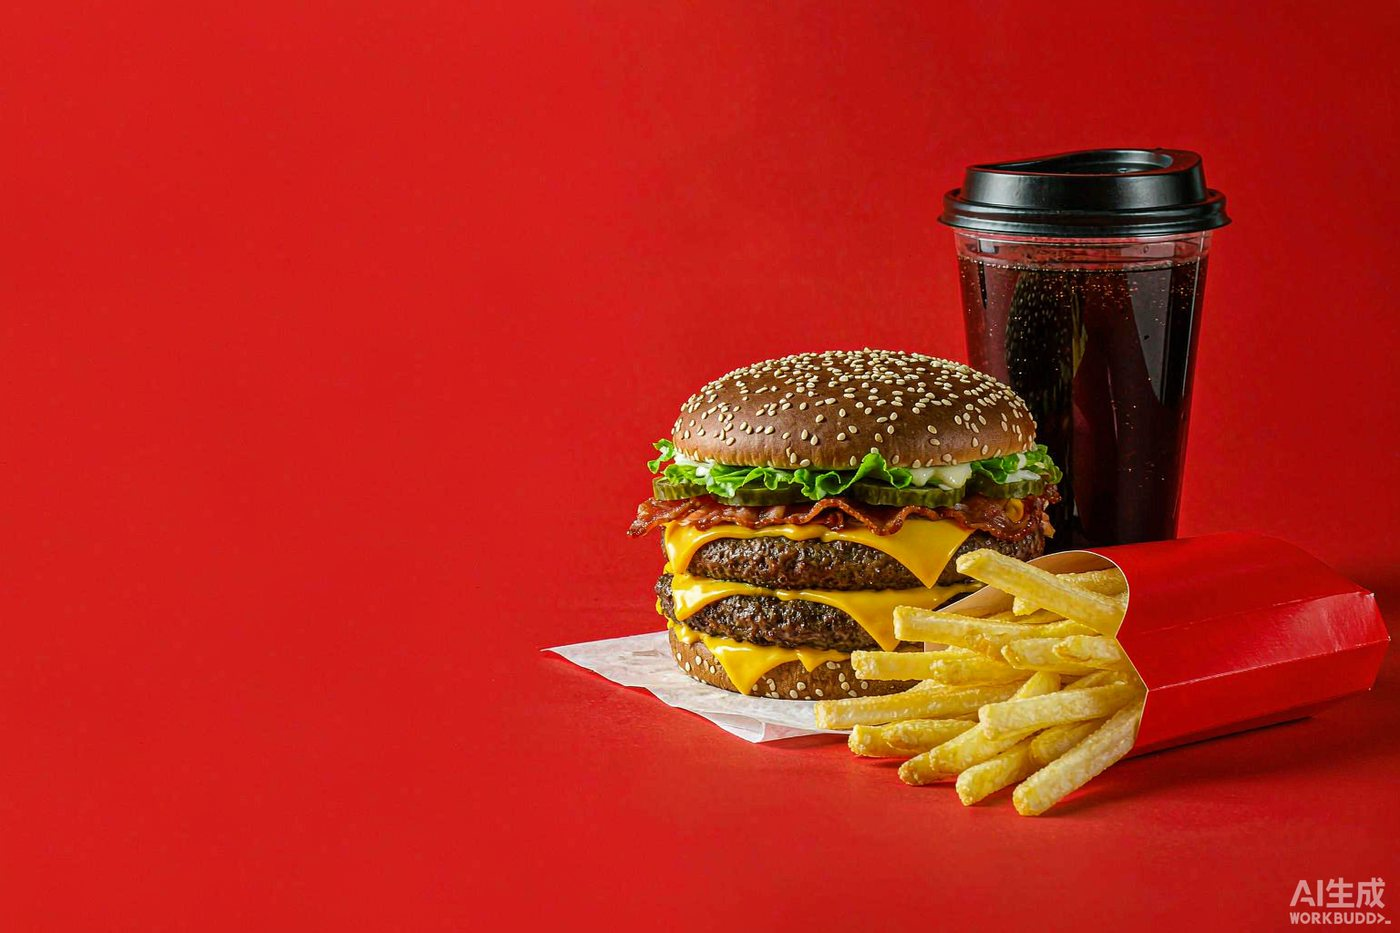
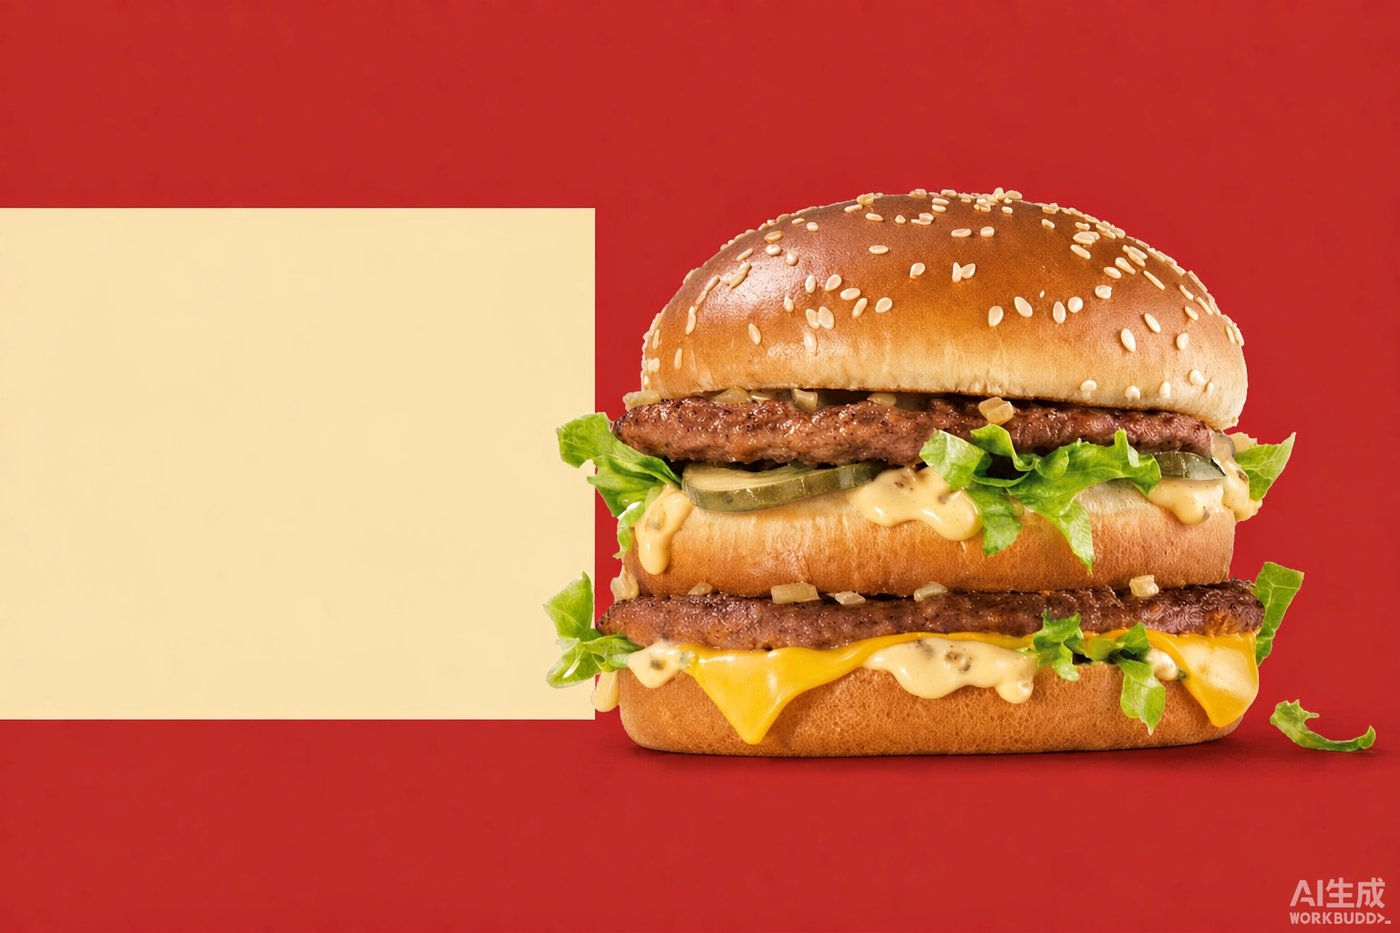
style: 首页全宽海报 + 顶部导航 tab；主视觉改用官方巨无霸参考图生成
- 首屏改为全宽大图（参考 Pure Sunfarms），不再两侧留白
- 顶部改为简洁导航 tab；场景卡片与特性区保留
- 标题加浅底防叠图、折行；主视觉以官方巨无霸图作参考生成，产品更真实

diff --git a/index.html b/index.html
@@ -3,185 +3,126 @@
 <head>
 <meta charset="UTF-8">
 <meta name="viewport" content="width=device-width, initial-scale=1">
-<title>减脂期还想吃麦当劳？说个预算和卡数 · 麦当劳预算及热量测算</title>
-<meta name="description" content="输入一个金额 + 一个热量目标，输出三个真实可下单的麦当劳套餐方案。数据来自真实菜单、价格、营养与优惠券快照。">
+<title>麦当劳预算及热量测算专家 · 一个人吃 / 多人聚餐</title>
+<meta name="description" content="一个人吃，多少钱多少卡出三档套餐；一群人吃，整桌拼单比各点各的省多少。数据来自麦当劳官方接口。">
 <style>
-  :root{
-    --ink:#141414; --red:#DA291C; --yel:#FFC72C; --cream:#FFF9EC;
-    --line:#e3d9c3; --grey:#7a6a52;
-  }
+  :root{--ink:#141414;--red:#DA291C;--yel:#FFC72C;--cream:#FFF9EC;--line:#e3d9c3;--grey:#7a6a52}
   *{margin:0;padding:0;box-sizing:border-box}
-  body{
-    font-family:"Microsoft YaHei","PingFang SC","Hiragino Sans GB",system-ui,sans-serif;
-    background:var(--cream); color:var(--ink); line-height:1.7;
-    -webkit-font-smoothing:antialiased;
-  }
-  .wrap{max-width:960px;margin:0 auto;padding:0 20px 72px}
-
-  /* ── 顶栏 ── */
-  header{border-bottom:3px solid var(--ink); padding:26px 0 20px; margin-bottom:34px}
-  .kicker{font-size:12px;letter-spacing:.22em;color:var(--grey);font-weight:700}
-  h1{font-size:34px;line-height:1.25;margin:8px 0 6px;letter-spacing:-.01em}
-  h1 em{font-style:normal;color:var(--red)}
-  .lede{font-size:15px;color:#4a4034;max-width:660px}
-
-  /* ── 主行动区 ── */
-  .cta{
-    border:3px solid var(--ink);border-radius:14px;background:#fff;
-    padding:26px 24px;margin:0 0 34px;
-    box-shadow:6px 6px 0 var(--yel);
-  }
-  .cta h2{font-size:18px;margin-bottom:6px}
-  .cta p{font-size:13.5px;color:var(--grey);margin-bottom:16px}
-  .btn{
-    display:inline-flex;align-items:center;gap:10px;
-    background:var(--red);color:#fff;text-decoration:none;
-    font-size:16px;font-weight:800;padding:14px 26px;border-radius:10px;
-    border:2px solid var(--ink);box-shadow:4px 4px 0 var(--ink);
-    transition:transform .12s ease, box-shadow .12s ease;
-  }
+  body{font-family:"Microsoft YaHei","PingFang SC","Hiragino Sans GB",system-ui,sans-serif;background:var(--cream);color:var(--ink);line-height:1.7;-webkit-font-smoothing:antialiased}
+  a{color:var(--red);text-decoration:none}
+  .nav{display:flex;align-items:center;justify-content:space-between;gap:18px;max-width:1240px;margin:0 auto;padding:18px 24px}
+  .brand{font-size:17px;font-weight:800;letter-spacing:.02em;white-space:nowrap}
+  .brand b{color:var(--red)}
+  .navlinks{display:flex;gap:22px;font-size:13.5px;font-weight:700;color:#4a4034;flex-wrap:wrap}
+  .navlinks a{color:#4a4034;padding-bottom:3px;border-bottom:2px solid transparent}
+  .navlinks a:hover{color:var(--red);border-bottom-color:var(--red)}
+  .hero{position:relative;max-width:1440px;margin:0 auto;height:460px;overflow:hidden}
+  .hero img{position:absolute;inset:0;width:100%;height:100%;object-fit:cover;object-position:center}
+  .hero-text{position:relative;height:100%;display:flex;flex-direction:column;justify-content:center;padding:0 24px;max-width:1240px;margin:0 auto}
+  .hero-text .inner{max-width:560px;background:rgba(255,249,236,.88);padding:22px 24px;border-radius:16px}
+  .kicker{font-size:12px;letter-spacing:.2em;color:#8a6d3b;font-weight:800;margin-bottom:12px}
+  .hero h1{font-size:clamp(28px,4vw,46px);line-height:1.25;font-weight:800;letter-spacing:.5px}
+  .hero h1 em{font-style:normal;color:var(--red)}
+  .hero p{margin-top:14px;font-size:15px;color:#4a4034;max-width:460px}
+  .hero-cta{margin-top:22px;display:flex;gap:12px;flex-wrap:wrap}
+  .btn{display:inline-flex;align-items:center;gap:8px;background:var(--red);color:#fff;font-size:15px;font-weight:800;padding:13px 24px;border-radius:10px;border:2px solid var(--ink);box-shadow:4px 4px 0 var(--ink);transition:transform .12s ease,box-shadow .12s ease}
   .btn:hover{transform:translate(-2px,-2px);box-shadow:6px 6px 0 var(--ink)}
-  .btn:active{transform:translate(2px,2px);box-shadow:1px 1px 0 var(--ink)}
-  .note{margin-top:16px;font-size:12.5px;color:var(--grey);line-height:1.8}
-  .note code{background:#F1EAD8;border:1px solid var(--line);border-radius:4px;padding:1px 6px;font-size:12px}
-
-  /* ── 三步 ── */
-  h3.sec{font-size:14px;letter-spacing:.14em;color:var(--grey);font-weight:800;
-        margin:38px 0 14px;padding-bottom:8px;border-bottom:2px solid var(--line)}
-  .steps{display:grid;grid-template-columns:repeat(auto-fit,minmax(230px,1fr));gap:14px}
-  .step{border:2px solid var(--ink);border-radius:12px;background:#fff;padding:16px 16px 18px}
-  .step .n{font-family:Consolas,monospace;font-weight:800;font-size:12px;color:#fff;
-           background:var(--ink);border-radius:6px;padding:2px 8px;display:inline-block}
-  .step h4{font-size:15.5px;margin:10px 0 5px}
-  .step p{font-size:13px;color:#5a5044}
-
-  /* ── 特性 ── */
-  .feats{display:grid;grid-template-columns:repeat(auto-fit,minmax(250px,1fr));gap:12px}
-  .feat{border-left:4px solid var(--yel);background:#fff;border-radius:0 10px 10px 0;
-        padding:13px 15px;border-top:1.5px solid var(--line);border-right:1.5px solid var(--line);border-bottom:1.5px solid var(--line)}
-  .feat b{display:block;font-size:14px;margin-bottom:3px}
+  .btn.alt{background:var(--yel);color:var(--ink)}
+  .wrap{max-width:1240px;margin:0 auto;padding:0 24px}
+  .sec{font-size:14px;letter-spacing:.14em;color:var(--grey);font-weight:800;margin:40px 0 14px;padding-bottom:8px;border-bottom:2px solid var(--line)}
+  .scenes{display:grid;grid-template-columns:repeat(auto-fit,minmax(280px,1fr));gap:16px}
+  .scene{display:block;background:#fff;border:2.5px solid var(--ink);border-radius:14px;padding:20px;box-shadow:5px 5px 0 var(--yel);transition:transform .12s ease,box-shadow .12s ease}
+  .scene:hover{transform:translate(-2px,-2px);box-shadow:7px 7px 0 var(--yel)}
+  .scene .emoji{font-size:32px}
+  .scene .t{font-size:22px;font-weight:800;margin:8px 0 3px}
+  .scene .d{font-size:13px;font-weight:800;color:var(--red);margin-bottom:8px}
+  .scene .s{font-size:13px;color:#5a5044}
+  .feats{display:grid;grid-template-columns:repeat(auto-fit,minmax(240px,1fr));gap:12px}
+  .feat{border-left:4px solid var(--yel);background:#fff;border-radius:0 10px 10px 0;padding:14px 16px;border-top:1.5px solid var(--line);border-right:1.5px solid var(--line);border-bottom:1.5px solid var(--line)}
+  .feat b{display:block;font-size:14px;margin-bottom:4px}
   .feat span{font-size:12.5px;color:#5f5446}
-
-  /* ── 数据来源 ── */
   .src{border:2px dashed #cdb98c;border-radius:12px;background:#FFFDF4;padding:16px 18px;font-size:13px;color:#4a4034}
   .src b{color:var(--ink)}
   .src ul{margin:8px 0 0 18px}
   .src li{margin:3px 0}
-
-  /* ── 本地运行 ── */
-  .local{border:2px solid var(--ink);border-radius:12px;background:#fff;padding:16px 18px;margin-top:14px}
-  .local h4{font-size:14.5px;margin-bottom:8px}
-  .local ol{margin-left:18px;font-size:13px;color:#4a4034}
-  .local li{margin:5px 0}
-  .warn{background:#FFF3F3;border:1.5px solid #f0b9b5;border-radius:9px;padding:10px 12px;
-        font-size:12.5px;color:#8a2a22;margin-top:12px}
-
-  footer{margin-top:46px;padding-top:18px;border-top:2px solid var(--line);
-         font-size:12px;color:var(--grey);display:flex;flex-wrap:wrap;gap:14px;justify-content:space-between}
-  a{color:var(--red)}
-  @media (max-width:560px){
-    h1{font-size:26px}
-    .btn{width:100%;justify-content:center}
+  footer{margin:44px 0 30px;padding-top:18px;border-top:2px solid var(--line);font-size:12px;color:var(--grey);display:flex;flex-wrap:wrap;gap:14px;justify-content:space-between}
+  @media(max-width:760px){
+    .nav{flex-direction:column;align-items:flex-start;gap:10px}
+    .hero{height:520px}
+    .hero-text{justify-content:flex-end;padding-bottom:34px}
+    .hero-text .inner{max-width:100%}
+    .hero p{max-width:100%}
   }
-
-  /* 场景分流：首屏只让用户选「一个人 / 一群人」，不再堆版本入口 */
-  .scenes{display:grid;grid-template-columns:repeat(auto-fit,minmax(240px,1fr));gap:14px;margin-top:14px}
-  .scene{display:block;text-decoration:none;background:#FFF6DC;border:2.5px solid var(--ink);
-         border-radius:14px;padding:18px 18px 20px;box-shadow:5px 5px 0 var(--yel);
-         transition:transform .12s ease,box-shadow .12s ease}
-  .scene:hover{transform:translate(-2px,-2px);box-shadow:7px 7px 0 var(--yel)}
-  .scene.alt{background:#fff}
-  .scene .emoji{font-size:30px;line-height:1.2}
-  .scene .t{font-size:21px;font-weight:800;margin:8px 0 3px;color:var(--ink)}
-  .scene .d{font-size:13px;font-weight:800;color:var(--red);margin-bottom:8px}
-  .scene .s{font-size:12.8px;color:#5a5044;line-height:1.7}
 </style>
 </head>
 <body>
-<div class="wrap">
 
-  <header>
-    <div class="kicker">麦当劳预算及热量测算 · MCDONALD'S × AI HACKATHON</div>
-    <h1>减脂期还想吃麦当劳？<br><em>说个预算和卡数，三档能直接下单的组合</em></h1>
-    <p class="lede">一个人吃，说清花多少、要多少热量，算出三档能直接下单的套餐；一群人吃，报个人数和预算，直接拼出整桌怎么点、比各点各的省多少。菜单、价格、营养、券全部来自麦当劳官方接口。</p>
-  </header>
+<header class="nav">
+  <div class="brand">🍔 麦当劳<b>预算及热量测算</b></div>
+  <nav class="navlinks">
+    <a href="https://erikzeng2008-del.github.io/mcd-dual-budget-coach/lite.html">一个人吃</a>
+    <a href="https://erikzeng2008-del.github.io/mcd-dual-budget-coach/party.html">多人聚餐</a>
+    <a href="https://erikzeng2008-del.github.io/mcd-dual-budget-coach/demo.html">完整版</a>
+    <a href="https://erikzeng2008-del.github.io/mcd-dual-budget-coach/card.html">人设卡</a>
+    <a href="https://github.com/erikzeng2008-del/mcd-dual-budget-coach" target="_blank" rel="noopener">GitHub</a>
+  </nav>
+</header>
 
-  <div class="cta">
-    <h2>你是哪种吃法？</h2>
-    <p>不用挑版本，直接选场景。点进去就能用，手机上也一样。</p>
-    <div class="scenes">
-      <a class="scene" href="https://erikzeng2008-del.github.io/mcd-dual-budget-coach/lite.html" target="_blank" rel="noopener">
-        <div class="emoji">🍔</div>
-        <div class="t">一个人吃</div>
-        <div class="d">双预算配餐 · 三档方案</div>
-        <div class="s">说清「多少钱 + 多少卡」，算出最划算、最扎实、最均衡的一顿</div>
-      </a>
-      <a class="scene alt" href="https://erikzeng2008-del.github.io/mcd-dual-budget-coach/party.html" target="_blank" rel="noopener">
-        <div class="emoji">🍻</div>
-        <div class="t">多人聚餐</div>
-        <div class="d">拼单省钱 · 点单接龙</div>
-        <div class="s">2–12 人整桌怎么点，比各点各的省多少，一键复制发群里</div>
-      </a>
+<section class="hero">
+  <img src="assets/hero-wide.jpg" alt="麦当劳汉堡薯条可乐组合海报">
+  <div class="hero-text"><div class="inner">
+    <div class="kicker">MCDONALD'S × AI HACKATHON</div>
+    <h1>减脂期还想吃麦当劳？<br><em>说个预算和卡数，<br>三档能直接下单的组合</em></h1>
+    <p>一个人吃控热量，一群人吃拼单省钱。菜单、价格、营养、券全部来自麦当劳官方接口。</p>
+    <div class="hero-cta">
+      <a class="btn" href="https://erikzeng2008-del.github.io/mcd-dual-budget-coach/lite.html">一个人吃 →</a>
+      <a class="btn alt" href="https://erikzeng2008-del.github.io/mcd-dual-budget-coach/party.html">多人聚餐 →</a>
     </div>
-    <p class="note" style="margin-top:16px">只想看高清商品大图？<a href="https://erikzeng2008-del.github.io/mcd-dual-budget-coach/demo.html" target="_blank" rel="noopener">完整版</a>　·　想看会闪的卡片？<a href="https://erikzeng2008-del.github.io/mcd-dual-budget-coach/card.html" target="_blank" rel="noopener">全息人设卡</a></p>
-  </div>
+  </div></div>
+</section>
 
-  <h3 class="sec">怎么玩</h3>
-  <div class="steps">
-    <div class="step">
-      <span class="n">STEP 1</span>
-      <h4>说清两件事</h4>
-      <p>拖动滑杆设定「今天花多少」和「想摄入多少热量」，点一下出方案。</p>
-    </div>
-    <div class="step">
-      <span class="n">STEP 2</span>
-      <h4>拿三档方案</h4>
-      <p>最划算 / 最扎实 / 最均衡。每档都标清单品、到手价、热量占比、钠和蛋白，还有拼好的套餐图。</p>
-    </div>
-    <div class="step">
-      <span class="n">STEP 3</span>
-      <h4>配券再省一点</h4>
-      <p>自动匹配今天真正能用的券，算清用券后到手价；用不上的券也会说明原因，不藏着。</p>
-    </div>
+<main class="wrap">
+
+  <h3 class="sec">你是哪种吃法？</h3>
+  <div class="scenes">
+    <a class="scene" href="https://erikzeng2008-del.github.io/mcd-dual-budget-coach/lite.html">
+      <div class="emoji">🍔</div>
+      <div class="t">一个人吃</div>
+      <div class="d">双预算配餐 · 三档方案</div>
+      <div class="s">说清「多少钱 + 多少卡」，算出最划算、最扎实、最均衡的一顿</div>
+    </a>
+    <a class="scene" href="https://erikzeng2008-del.github.io/mcd-dual-budget-coach/party.html">
+      <div class="emoji">🍻</div>
+      <div class="t">多人聚餐</div>
+      <div class="d">拼单省钱 · 点单接龙</div>
+      <div class="s">2–12 人整桌怎么点，比各点各的省多少，一键复制发群里</div>
+    </a>
   </div>
 
   <h3 class="sec">它做了什么</h3>
   <div class="feats">
     <div class="feat"><b>真数据，不是编的</b><span>菜单 / 价格 / 营养 / 券全部来自麦当劳官方接口快照，写明抓取时间</span></div>
-    <div class="feat"><b>三档而非一档</b><span>最省钱 / 最扛饿 / 最不浪费，分歧点说清楚，不替你做唯一决定</span></div>
+    <div class="feat"><b>三档而非一档</b><span>最省钱 / 最扎实 / 最均衡，分歧点说清楚，不替你做唯一决定</span></div>
     <div class="feat"><b>券会算清账</b><span>今天哪张券能用、用完省多少、为什么某张券用不上</span></div>
-    <div class="feat"><b>单文件可离线</b><span>HTML + CSS + JS + 图全内嵌，拷走也能跑，不依赖任何服务</span></div>
+    <div class="feat"><b>聚餐会拼单</b><span>多人餐先拆构成再算人均，比各点各的省多少直接写出来</span></div>
   </div>
 
   <h3 class="sec">数据来源</h3>
   <div class="src">
-    <b>全部来自麦当劳官方菜单接口的一次快照</b>，抓取时间 <b>2026-10-11 10:30</b>（北京）。
+    <b>全部来自麦当劳官方接口的一次快照</b>，抓取时间 <b>2026-10-25</b>（北京）。
     <ul>
-      <li>商品与价格：<b>83</b> 个单品，含套餐 / 单品 / 小食甜品 / 炸鸡</li>
+      <li>商品与价格：106 个单品，含套餐 / 单品 / 小食甜品 / 多人餐</li>
       <li>营养：每单的热量、钠、蛋白质、脂肪</li>
-      <li>优惠券：<b>11</b> 张，含生效时段与「周一到周五 10:30-23:59」这类限制</li>
-      <li>商品图：官方商品图，经 AI 抠图去背后内嵌，套餐图为多件商品重新拼合</li>
+      <li>优惠券与活动：可领券、当周活动日历</li>
+      <li>页面为单文件演示，打开即用，无需安装</li>
     </ul>
-  </div>
-
-  <h3 class="sec">想在本地跑</h3>
-  <div class="local">
-    <h4>三步搞定</h4>
-    <ol>
-      <li>下载仓库里的 <code>demo.html</code>（约 11 MB，属正常——真实商品图都嵌在里面）</li>
-      <li>双击用浏览器打开，无需联网、无需服务器</li>
-      <li>手机上用：把文件传到手机浏览器打开，或直接用上面的在线链接</li>
-    </ol>
-    <div class="warn">
-      ⚠ 别在 GitHub 网页上直接点开 <code>demo.html</code>——文件太大，GitHub 的预览会报错。用在线链接或本地打开。
-    </div>
   </div>
 
   <footer>
     <span>麦当劳预算及热量测算 · 麦当劳 AI 创新挑战赛作品</span>
-    <span><a href="https://github.com/erikzeng2008-del/mcd-dual-budget-coach" target="_blank" rel="noopener">源码仓库</a> · <a href="https://erikzeng2008-del.github.io/mcd-dual-budget-coach/demo.html" target="_blank" rel="noopener">在线 Demo</a></span>
+    <span><a href="https://github.com/erikzeng2008-del/mcd-dual-budget-coach" target="_blank" rel="noopener">源码仓库</a> · <a href="https://erikzeng2008-del.github.io/mcd-dual-budget-coach/party.html">聚餐拼单</a></span>
   </footer>
 
-</div>
+</main>
 </body>
 </html>
